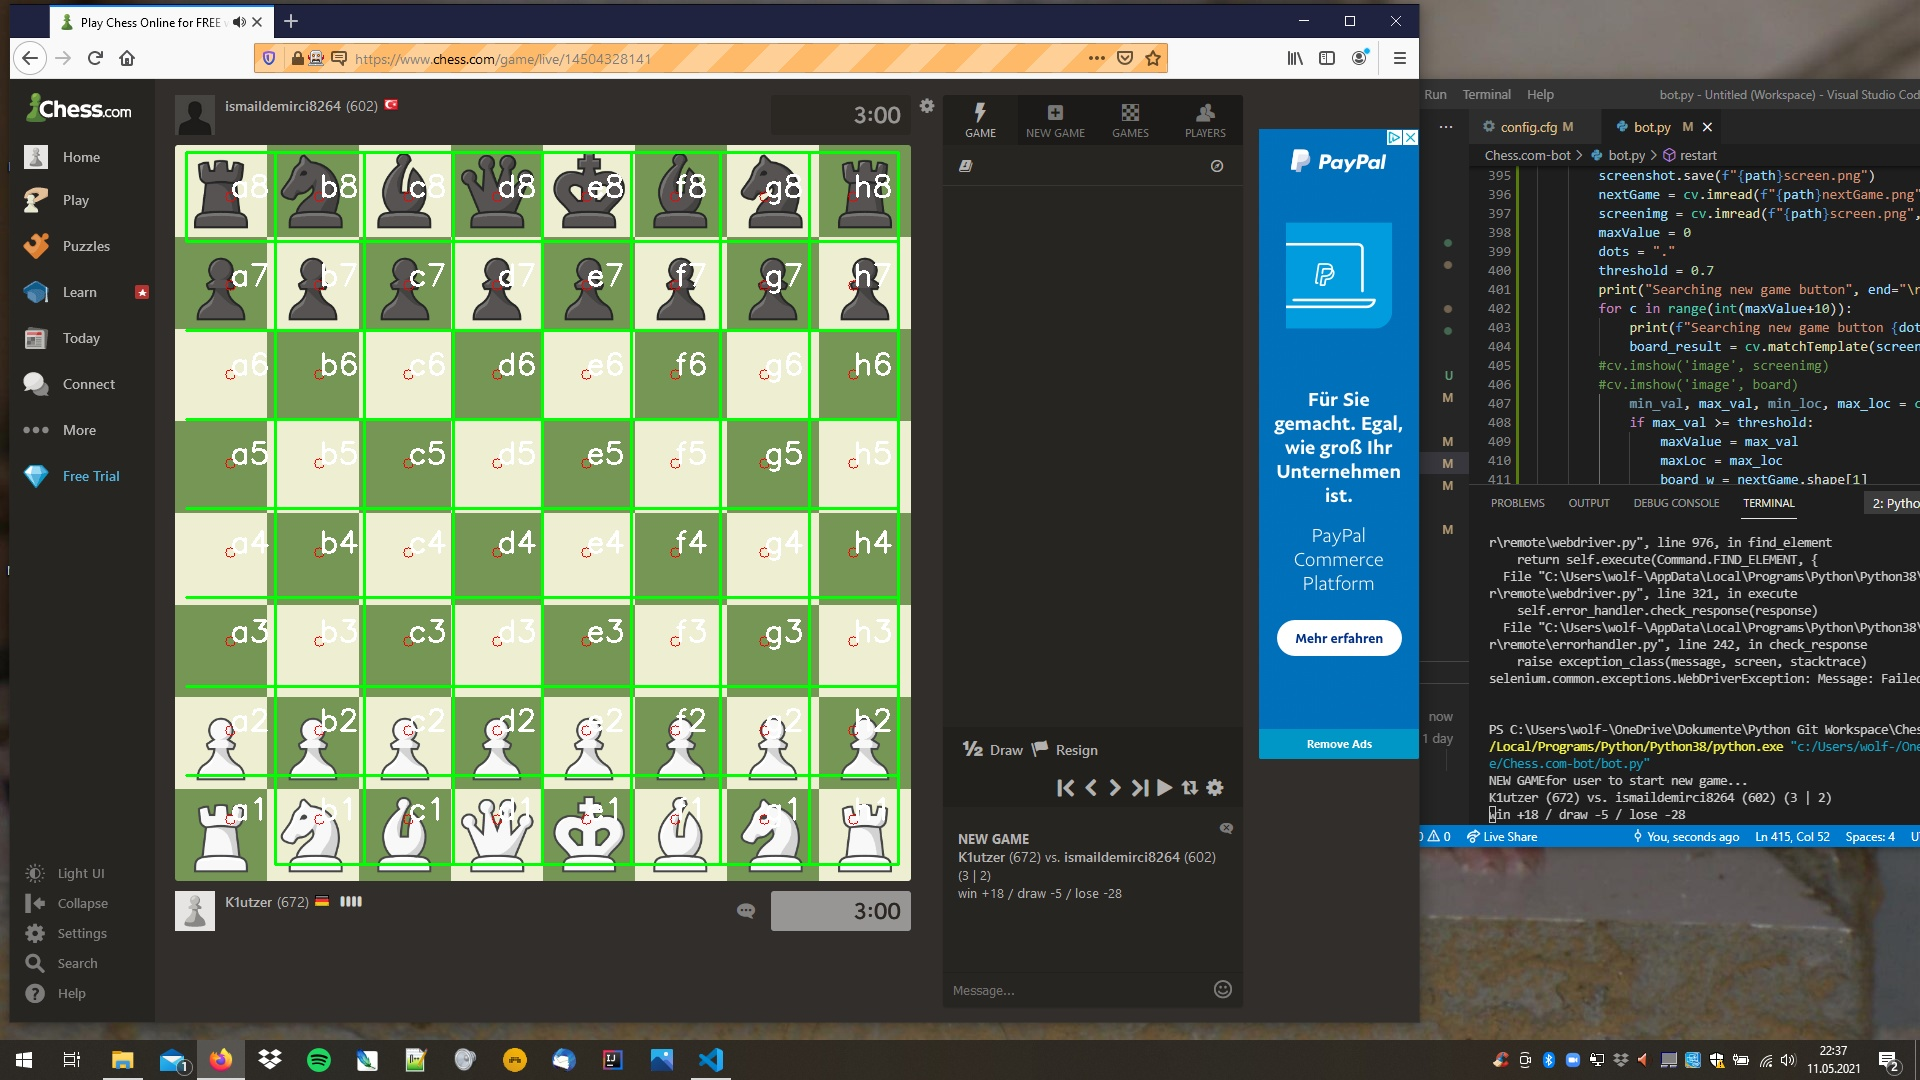
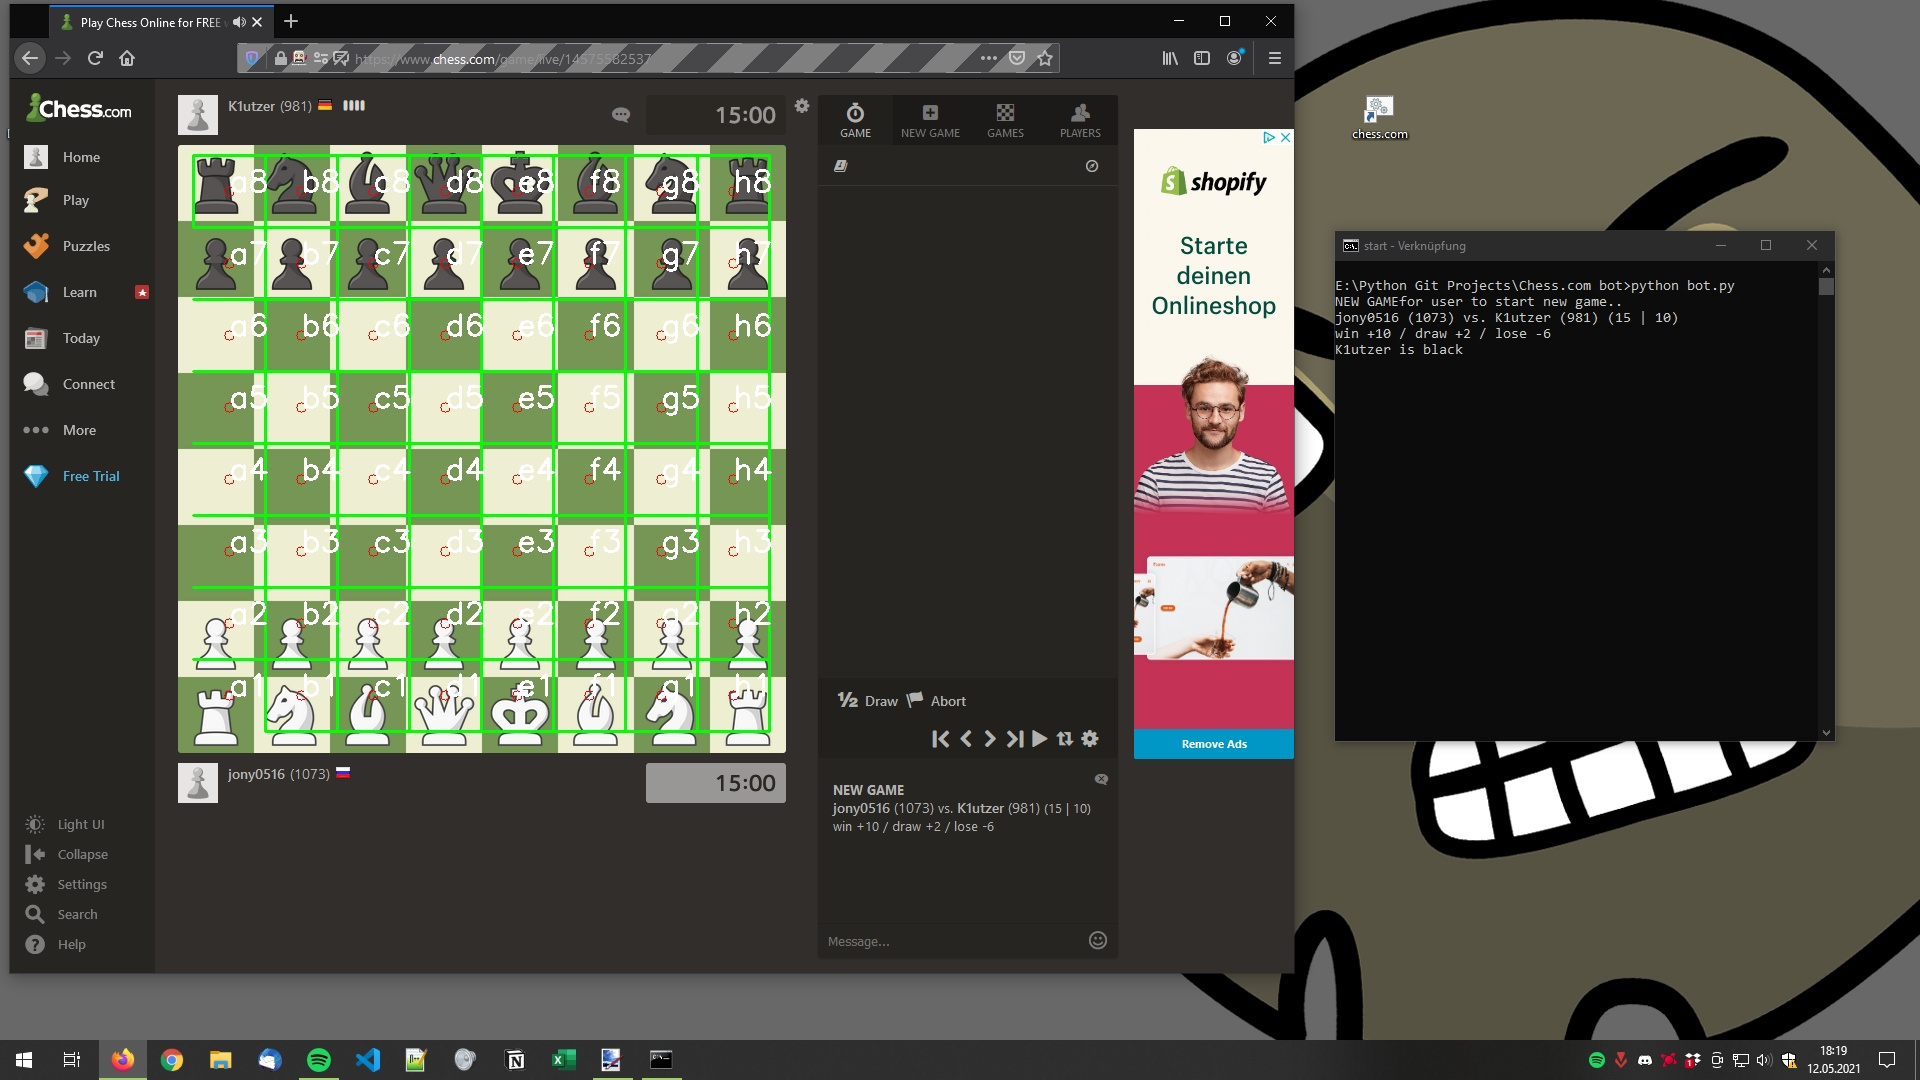
edit

diff --git a/bot.py b/bot.py
@@ -12,9 +12,9 @@ import os
 
 import random
 
-import pytesseract
 import pyautogui
 
+import keyboard
 import win32api, win32con
 
 from stockfishpy.stockfishpy import *
@@ -87,18 +87,19 @@ def get_user_color(driver):
             else:
                 dot += "."
 
+
     global alwaysPrint, pauseMaxTime, legit
     alwaysPrint = elem.text
     pattern = re.compile("(\d{1,2} \| \d{1,2})")
     gameModeTimes = re.findall('[0-9]+', pattern.search(elem.text).group())
     if int(gameModeTimes[0]) < 3:
-        pauseMaxTime = 6.0
+        pauseMaxTime = 13.0
     elif int(gameModeTimes[0]) < 5:
-        pauseMaxTime = 8.0
+        pauseMaxTime = 25.0
     elif int(gameModeTimes[0]) < 10:
-        pauseMaxTime = 14.0
+        pauseMaxTime = 50.0
     elif int(gameModeTimes[0]) >= 15:
-        pauseMaxTime = 30.0
+        pauseMaxTime = 90.0
     if not legit:
         pauseMaxTime = 0
     print(elem.text)
@@ -242,7 +243,12 @@ def run_game(driver, chessEngine, board):
         print(f"{alwaysPrint}\nMy Turn")
 
         print(f"Pause: {float_to_string(pauseTime, 2)}s", end="\r")
-        time.sleep(pauseTime)
+        rest = pauseTime - int(pauseTime)
+        for _ in range(int(pauseTime)):
+            if keyboard.is_pressed('s'):
+                break
+            time.sleep(1)   
+        time.sleep(rest)
         #print(f"My Move: {best_move}")
         #time.sleep(pauseTime)
         #print(board, best_move)
@@ -296,12 +302,11 @@ def getMoves(board, driver):
 def click(x, y):
     win32api.SetCursorPos((x,y))
     win32api.mouse_event(win32con.MOUSEEVENTF_LEFTDOWN,0,0)
-    time.sleep(0.1)
+    time.sleep(random.uniform(0.01, 0.2))
     win32api.mouse_event(win32con.MOUSEEVENTF_LEFTUP,0,0)
     
 def makeMove(board, best_move):
     #print(best_move)
-
     global movesCounter 
     global fields_Cords
     moveTmp = chess.Move.from_uci(best_move)
@@ -431,7 +436,7 @@ def restart():
             bottom_right = (int(top_left[0]+field_w), int(top_left[1]+field_h))
             #cv.rectangle(screenimg, top_left, bottom_right, color=(0, 255, 0), thickness=2, lineType=cv.LINE_4)  
             cv.circle(screenimg, top_left, 5, color=(0,0,255))
-            cv.imshow('Result', screenimg)
+            #cv.imshow('Result', screenimg)
             #cv.imwrite("board_result.jpg", screenimg)
             click(top_left[0], top_left[1])
         else:
@@ -451,7 +456,10 @@ def main(driver, chessEngine, board, newBoard):
         time.sleep(0.5)
     global keepPlaying
     if keepPlaying:
-        time.sleep(8)
+        for _ in range(20):
+            if keyboard.is_pressed('q'):
+                quit()
+            time.sleep(1)
         restart()
     print()
     start(driver)
